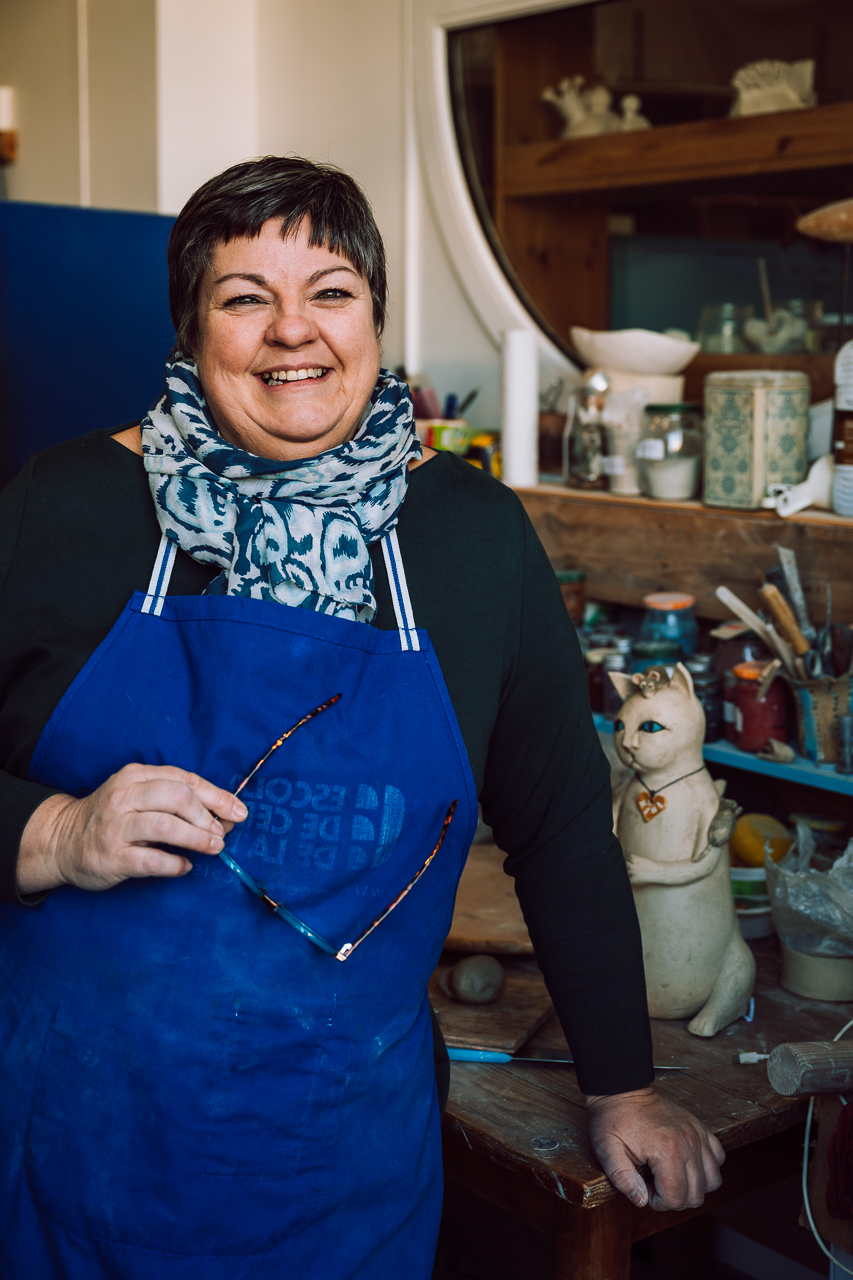
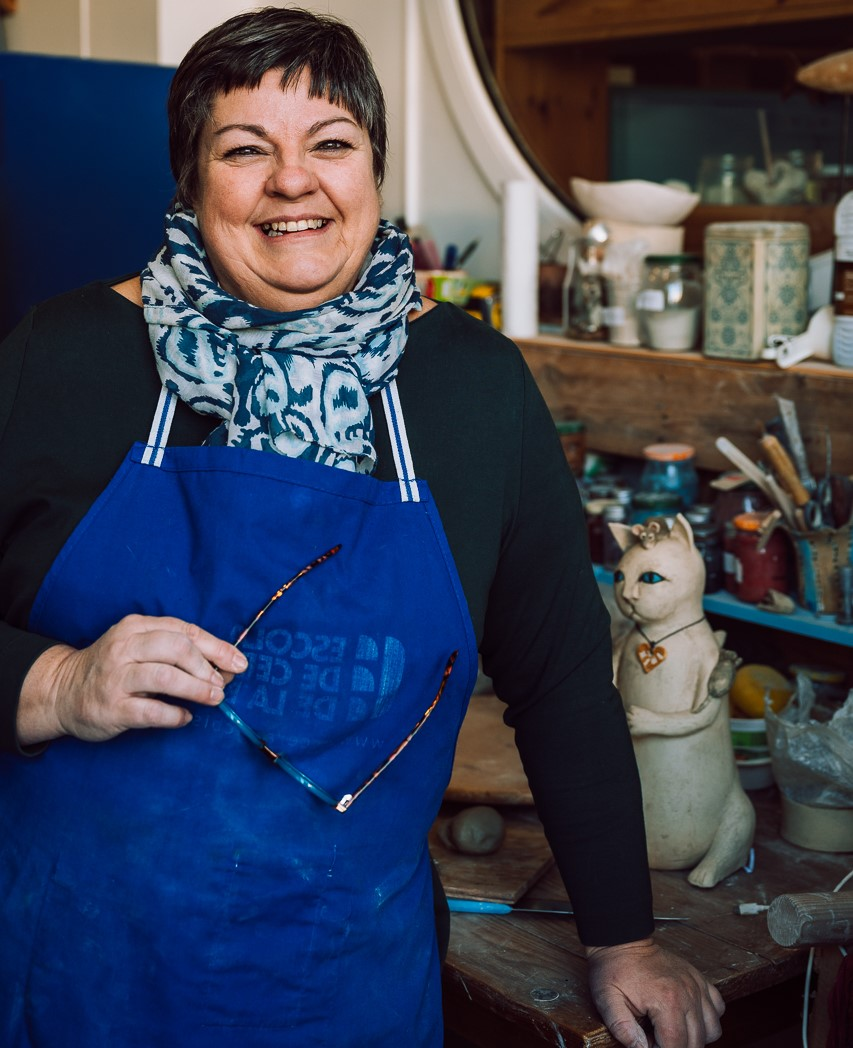
ajout image index

diff --git a/Style/style.css b/Style/style.css
@@ -91,9 +91,31 @@ nav a:hover {
 }
 
 .image-dame {
-    width: 15%; /* La largeur de l'image est 100% */
+    width: 80%; /* La largeur de l'image est 100% */
     height: auto;
 }
+
+.dame {
+    display: flex;
+}
+
+article {
+    flex: 1 1 50%;
+    max-width: 50%;
+    box-sizing: border-box;
+    padding: 20px;
+    margin-left: 250px;
+   
+}
+
+aside {
+    flex: 1 1 50%;
+    max-width: 50%;
+    box-sizing: border-box;
+    padding: 10px; /* Vous pouvez ajuster le padding selon vos besoins */
+    margin-right: 250px;
+}
+
 
 
 /* ---- FIN  SECTION ---- */

diff --git a/index.html b/index.html
@@ -30,7 +30,7 @@
             </p>
         </div>
         </section>
-    <section>
+    <section class="dame">
         <article> <img src="Image\096_Annie B Céramique © Franck Tourneret Photographe_Web.jpg" class=" image-dame"></article>
         <aside>
             <h2>Qui modèle l'argile ?</h2>
